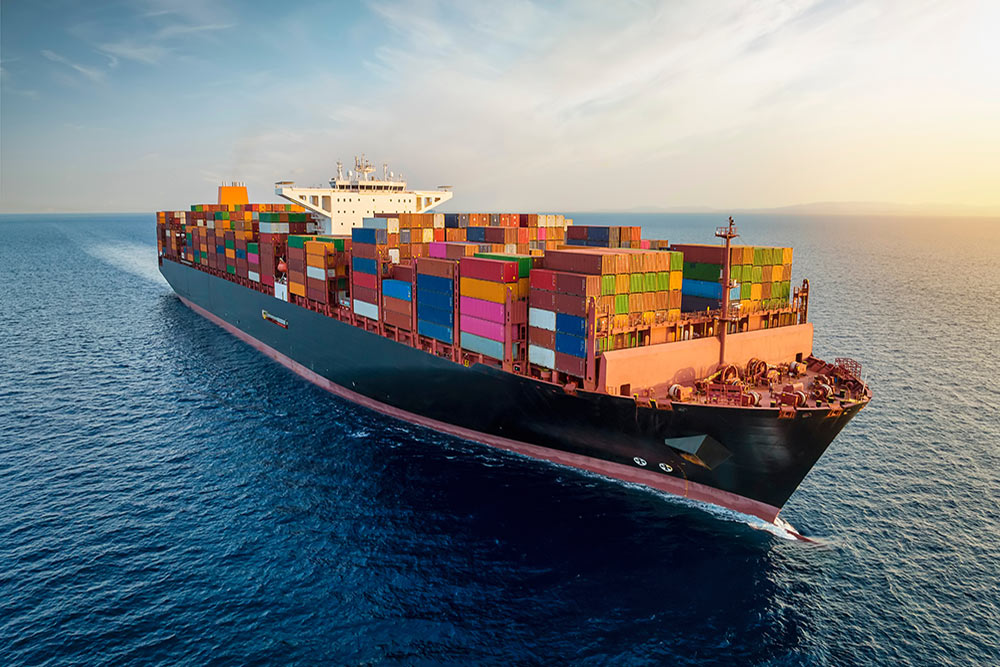
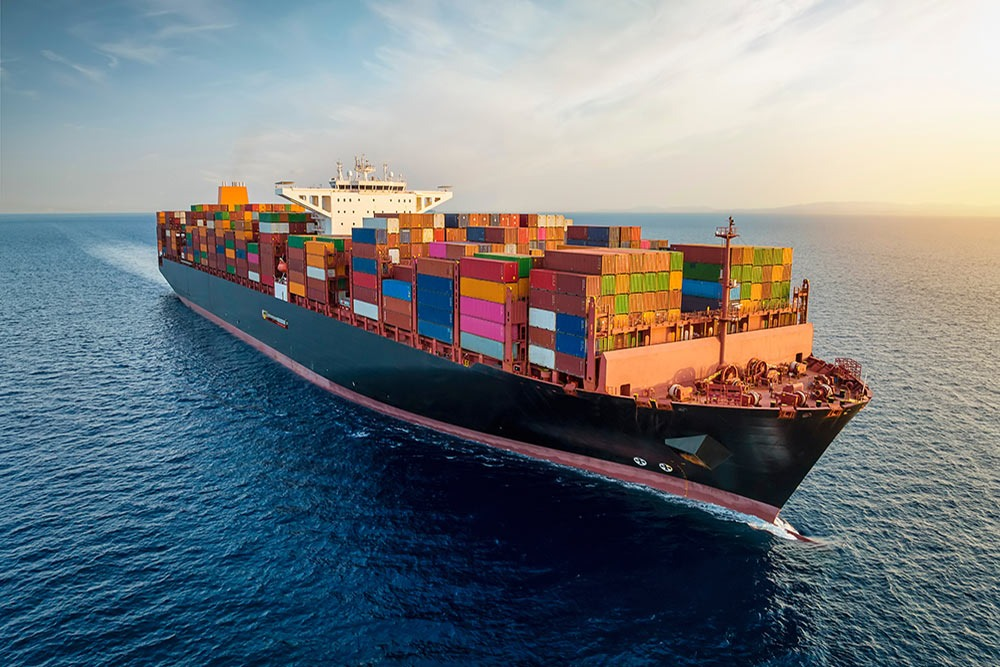
applied all requested changes

Changed region(s): [[0.589, 0.4498, 0.62, 0.5397], [0.775, 0.4498, 0.806, 0.4798], [0.372, 0.3298, 0.403, 0.3598]]

diff --git a/src/app/page.tsx b/src/app/page.tsx
@@ -242,7 +242,7 @@ export default function HomePage() {
 
             {/* Left: User Uploaded Ship Images */}
             <div style={{ position: 'relative' }}>
-              {/* Primary Image: Ship with products loaded (ship3.webp) */}
+              {/* Primary Image: Ship with products loaded (ship4.jpg) */}
               <div style={{
                 borderRadius: '12px',
                 overflow: 'hidden',
@@ -250,7 +250,7 @@ export default function HomePage() {
                 border: '4px solid #ffffff'
               }}>
                 <img
-                  src="/images/ship3.webp"
+                  src="/images/ship4.jpg"
                   alt="Vessel Loaded with Marine Spares"
                   style={{ width: '100%', height: '360px', objectFit: 'cover' }}
                 />

diff --git a/src/app/about/page.tsx b/src/app/about/page.tsx
@@ -86,7 +86,7 @@ export default function AboutPage() {
                 border: '4px solid #ffffff'
               }}>
                 <img 
-                  src="/images/ship3.webp" 
+                  src="/images/ship4.jpg" 
                   alt="Crest & Caliper Spares Vessel Cargo & Deck Operations"
                   style={{ width: '100%', height: '340px', objectFit: 'cover', display: 'block' }}
                 />
